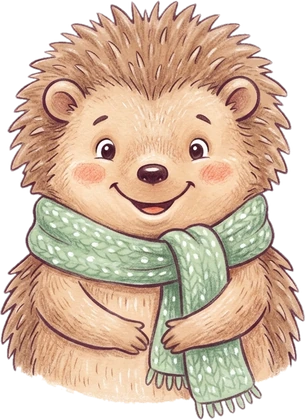
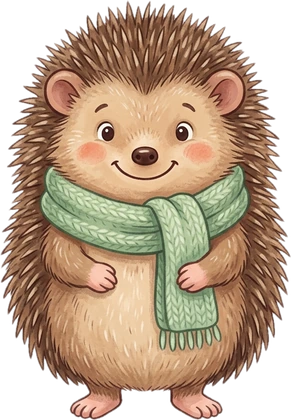
Legekassen: publiser fra legekassen@26ea6cf

diff --git a/leg/spil/blomsterhaven.js b/leg/spil/blomsterhaven.js
@@ -65,18 +65,8 @@
       display:flex;align-items:center;justify-content:center}
     .bh-nat-knap:active{transform:translateY(3px)}
 
-    /* Baggrund: havehegn, pynt og besøgende dyr */
+    /* Baggrund: pynt og besøgende dyr */
     .bh-scene{position:relative;flex:1;min-height:0;display:flex;flex-direction:column;justify-content:flex-end}
-    .bh-hegn{position:absolute;left:0;right:0;bottom:44%;height:16%;pointer-events:none;
-      background:repeating-linear-gradient(90deg,#e9d5b8 0 26px,#d4b690 26px 28px,transparent 28px 46px);
-      opacity:.9;border-top:5px solid #d4b690;border-bottom:5px solid #c4a076}
-    .bh.nat .bh-hegn{filter:brightness(.58) saturate(.8)}
-    /* Lyskæde i blød bue mellem æbletræerne (låses op efter 4 buketter) */
-    .bh-lyskaede{position:absolute;left:12%;right:12%;top:8%;height:14%;pointer-events:none;opacity:0;transition:opacity .6s;z-index:2}
-    .bh-lyskaede.vis{opacity:1}
-    .bh-lyskaede svg{width:100%;height:100%;overflow:visible;display:block}
-    .bh-paere{animation:bh-glimt 2.4s ease-in-out infinite;transform-box:fill-box;transform-origin:center}
-    .bh.nat .bh-paere-gloed{opacity:.95}
 
     /* Havepynt (låses op efter 1, 2, 3 buketter) — forankret på græsset bag bænken med skygge, dag/nat-lys og klik-reaktion */
     .bh-pynt{position:absolute;pointer-events:auto;cursor:pointer;bottom:34%;z-index:3;
@@ -146,18 +136,22 @@
     .bh-potte:active{transform:scale(.95)}
     .bh-potte.klar-pluk::before{content:"";position:absolute;inset:4px;border-radius:20px;
       box-shadow:0 0 0 4px #ffd23f,0 0 18px rgba(255,210,63,.7);animation:bh-puls 1.4s ease-in-out infinite;pointer-events:none}
-    .bh-plante-wrap{position:relative;width:100%;flex:1;display:flex;align-items:flex-end;justify-content:center;pointer-events:none;margin-bottom:-12px;z-index:2}
+    .bh-plante-wrap{position:relative;width:100%;flex:1;display:flex;align-items:flex-end;justify-content:center;pointer-events:none;margin-bottom:-22px;z-index:2}
     .bh-plante{max-height:clamp(95px,16.5vh,148px);max-width:96%;width:auto;object-fit:contain;display:block;
       transform-origin:bottom center;filter:drop-shadow(0 4px 5px rgba(45,30,45,.22));animation:bh-svaj 3.4s ease-in-out infinite}
     .bh-plante.voks{animation:bh-voks .55s cubic-bezier(.34,1.56,.64,1)}
     .bh-plante.spire{max-height:clamp(44px,7.5vh,68px)}
     .bh-plante.knop{max-height:clamp(74px,12.5vh,112px)}
-    .bh-pottesk{position:relative;width:clamp(72px,10vw,108px);height:clamp(48px,7.4vh,64px);z-index:1;
-      background:linear-gradient(180deg,#e07b54 0%,#c7613d 100%);
-      border-radius:8px 8px 22px 22px;border:3px solid #5a3426;box-shadow:0 4px 0 rgba(61,43,61,.25)}
-    .bh-pottesk::before{content:"";position:absolute;left:-7px;right:-7px;top:-10px;height:16px;border-radius:9px;
-      background:linear-gradient(180deg,#eb8b63,#d36d47);border:3px solid #5a3426}
-    .bh-jord{position:absolute;left:4px;right:4px;top:-6px;height:10px;border-radius:50%;background:#66422c}
+    .bh-pottesk-img{position:relative;z-index:1;width:clamp(84px,11.5vw,124px);height:auto;max-height:clamp(60px,9.2vh,84px);
+      object-fit:contain;display:block;pointer-events:none;transform-origin:bottom center;
+      filter:drop-shadow(0 5px 5px rgba(45,30,45,.25))}
+    /* Diskret håndlavet variation mellem de 6 potter (farvetone, størrelse, spejling af skrammer/lys) */
+    .bh-potte[data-idx="0"] .bh-pottesk-img{transform:scale(1.03) rotate(-.8deg)}
+    .bh-potte[data-idx="1"] .bh-pottesk-img{transform:scaleX(-1) scale(.96) rotate(.9deg);filter:hue-rotate(8deg) brightness(1.05) saturate(.94) drop-shadow(0 5px 5px rgba(45,30,45,.25))}
+    .bh-potte[data-idx="2"] .bh-pottesk-img{transform:scale(1.01) rotate(.5deg);filter:hue-rotate(-7deg) brightness(.95) saturate(1.08) drop-shadow(0 5px 5px rgba(45,30,45,.25))}
+    .bh-potte[data-idx="3"] .bh-pottesk-img{transform:scaleX(-1) scale(1.04) rotate(-.6deg);filter:hue-rotate(4deg) brightness(.98) saturate(1.04) drop-shadow(0 5px 5px rgba(45,30,45,.25))}
+    .bh-potte[data-idx="4"] .bh-pottesk-img{transform:scale(.95) rotate(1.1deg);filter:hue-rotate(-5deg) brightness(1.06) saturate(.9) drop-shadow(0 5px 5px rgba(45,30,45,.25))}
+    .bh-potte[data-idx="5"] .bh-pottesk-img{transform:scaleX(-1) scale(1.02) rotate(-.7deg);filter:hue-rotate(10deg) brightness(.94) saturate(1.05) drop-shadow(0 5px 5px rgba(45,30,45,.25))}
 
     /* Behov-boble over potten + støv/kilde-prikker */
     .bh-behov{position:absolute;top:2px;right:4px;z-index:4;width:clamp(38px,5.6vh,48px);height:clamp(38px,5.6vh,48px);
@@ -201,29 +195,35 @@
       background:#ff6b6b;color:#fff;font:800 15px/26px var(--display,system-ui);text-align:center;box-shadow:0 2px 0 rgba(61,43,61,.3)}
     .bh-tool-badge[hidden]{display:none}
 
-    /* Buket-værksted overlay (vælg sløjfe og giv til dyret!) */
-    .bh-buket-lag{position:absolute;inset:0;z-index:18;background:rgba(45,35,60,.42);backdrop-filter:blur(4px);
+    /* Buket-værksted overlay (håndmalet buket-indpakning, farvede sløjfer og glad modtager!) */
+    .bh-buket-lag{position:absolute;inset:0;z-index:18;background:rgba(45,35,60,.45);backdrop-filter:blur(5px);
       display:flex;align-items:center;justify-content:center;padding:16px}
     .bh-buket-lag[hidden]{display:none}
-    .bh-buket-kort{width:min(480px,92vw);border-radius:36px;background:#fffdf6;border:4px solid #4a354a;
-      box-shadow:0 12px 0 rgba(61,43,61,.28);padding:22px 20px;display:flex;flex-direction:column;align-items:center;gap:16px}
-    .bh-buket-vis{position:relative;width:230px;height:210px;display:flex;align-items:flex-end;justify-content:center}
-    .bh-buket-blomst{position:absolute;bottom:48px;height:145px;width:auto;object-fit:contain;transform-origin:bottom center;
-      filter:drop-shadow(0 4px 5px rgba(45,30,45,.2))}
-    .bh-buket-papir{position:relative;z-index:3;width:118px;height:96px;border-radius:10px 10px 46px 46px;
-      background:linear-gradient(135deg,#f7e3c4,#e7c496);border:3px solid #6b4325;
-      clip-path:polygon(0 0,100% 0,78% 100%,22% 100%)}
-    .bh-buket-sloejfe{position:absolute;bottom:44px;left:50%;transform:translateX(-50%);z-index:4;
-      width:74px;height:36px;display:flex;align-items:center;justify-content:center}
-    .bh-sloejfe-oere{width:30px;height:24px;border-radius:50%;border:3px solid var(--sk,#b83b3b);background:var(--sf,#ff6b6b)}
-    .bh-sloejfe-knude{width:18px;height:18px;border-radius:50%;border:3px solid var(--sk,#b83b3b);background:var(--sf,#ff6b6b);margin:0 -8px;z-index:2}
-    .bh-sloejfe-raekke{display:flex;gap:12px;justify-content:center;flex-wrap:wrap}
-    .bh-sloejfe-knap{width:62px;height:62px;border-radius:50%;border:4px solid #4a354a;box-shadow:0 4px 0 rgba(61,43,61,.22);
-      transition:transform .14s}
-    .bh-sloejfe-knap.valgt{transform:scale(1.15);box-shadow:0 0 0 4px #ffd23f,0 4px 0 rgba(61,43,61,.22)}
-    .bh-giv-knap{padding:14px 34px;border-radius:999px;background:#7ed957;border:3px solid #3d6b2b;
-      box-shadow:0 6px 0 #3d6b2b;font-size:34px;line-height:1;display:flex;align-items:center;gap:10px;
-      animation:bh-puls 1.3s ease-in-out infinite}
+    .bh-buket-kort{width:min(500px,92vw);border-radius:38px;
+      background:radial-gradient(circle at 50% 18%,#fffef8 0%,#fff7e2 68%,#f9ebd0 100%);
+      border:4px solid #4a354a;box-shadow:0 12px 0 rgba(61,43,61,.28),0 20px 40px rgba(35,20,45,.25);
+      padding:22px 20px 24px;display:flex;flex-direction:column;align-items:center;gap:16px;position:relative}
+    .bh-buket-top{display:flex;align-items:flex-end;justify-content:center;gap:12px;width:100%}
+    .bh-buket-modtager{height:clamp(108px,18vh,152px);width:auto;object-fit:contain;display:block;
+      filter:drop-shadow(0 5px 6px rgba(45,30,45,.2));animation:bh-nik 2.6s ease-in-out infinite}
+    .bh-buket-vis{position:relative;width:220px;height:220px;display:flex;align-items:flex-end;justify-content:center}
+    .bh-buket-blomst{position:absolute;bottom:76px;height:142px;width:auto;object-fit:contain;transform-origin:bottom center;
+      filter:drop-shadow(0 4px 5px rgba(45,30,45,.2));z-index:2}
+    .bh-buket-papir-img{position:relative;z-index:3;height:132px;width:auto;object-fit:contain;display:block;
+      filter:drop-shadow(0 6px 6px rgba(45,30,45,.22))}
+    .bh-buket-sloejfe-img{position:absolute;bottom:34px;left:50%;transform:translateX(-50%);z-index:4;
+      width:98px;height:auto;object-fit:contain;display:block;
+      filter:drop-shadow(0 3px 4px rgba(45,30,45,.25));transition:transform .2s cubic-bezier(.34,1.56,.64,1)}
+    .bh-sloejfe-raekke{display:flex;gap:10px;justify-content:center;flex-wrap:wrap}
+    .bh-sloejfe-knap{width:64px;height:64px;border-radius:50%;padding:7px;box-sizing:border-box;
+      background:#fffdf6;border:3px solid #4a354a;box-shadow:0 4px 0 rgba(61,43,61,.22);
+      display:flex;align-items:center;justify-content:center;transition:transform .14s}
+    .bh-sloejfe-knap img{width:100%;height:100%;object-fit:contain;display:block}
+    .bh-sloejfe-knap.valgt{background:#fff1ad;transform:scale(1.14);box-shadow:0 0 0 4px #ffd23f,0 4px 0 rgba(61,43,61,.22)}
+    .bh-giv-knap{width:84px;height:84px;padding:0;border-radius:50%;background:#7ed957;border:4px solid #3d6b2b;
+      box-shadow:0 6px 0 #3d6b2b;font-size:44px;line-height:1;
+      font-family:"Apple Color Emoji","Segoe UI Emoji","Noto Color Emoji",system-ui,sans-serif;
+      display:flex;align-items:center;justify-content:center;animation:bh-puls 1.3s ease-in-out infinite}
     .bh-giv-knap:active{transform:translateY(4px);box-shadow:0 2px 0 #3d6b2b}
 
     /* Telefon (smal skærm): 3x2 potter, kompakte knapper uden vandret scroll */
@@ -234,7 +234,8 @@
       .bh-plante{max-height:clamp(68px,11vh,94px)}
       .bh-plante.spire{max-height:38px}
       .bh-plante.knop{max-height:60px}
-      .bh-pottesk{width:68px;height:40px}
+      .bh-pottesk-img{width:76px;max-height:54px}
+      .bh-plante-wrap{margin-bottom:-16px}
       .bh-hegn{bottom:54%;height:11%}
       .bh-lyskaede{bottom:64%}
       .bh-pynt{bottom:47%}
@@ -429,13 +430,14 @@
         el, id,
         x: 15 + Math.random() * 70, y: 18 + Math.random() * 34,
         tx: 20 + Math.random() * 60, ty: 20 + Math.random() * 34,
-        tid: Math.random() * 6, vend: 1,
+        tid: Math.random() * 6, vend: 1, hvileTil: 0,
       };
       el.addEventListener("click", e => {
         e.stopPropagation();
         haveLyd("kryb");
         el.classList.remove("snur"); void el.offsetWidth; el.classList.add("snur");
         if (!roligt()) Spil.burstAt(el, "✨🌸✨");
+        k.hvileTil = 0;
         k.tx = 12 + Math.random() * 76; k.ty = 14 + Math.random() * 38;
       });
       lag.appendChild(el);
@@ -443,23 +445,31 @@
     }
   }
 
+  let sidstKryb = 0;
   function krybLoop(nu) {
     if (!alive) return;
     raf = requestAnimationFrame(krybLoop);
+    const dt = Math.min(.05, (nu - (sidstKryb || nu)) / 1000);
+    sidstKryb = nu;
     if (roligt()) return;
     const t = nu / 1000;
     for (const k of kryb) {
-      const dx = k.tx - k.x, dy = k.ty - k.y, d = Math.hypot(dx, dy);
-      if (d < 3) {
-        k.tx = 10 + Math.random() * 80;
-        k.ty = 16 + Math.random() * 38;
-      } else {
-        const fart = k.id === "bi" ? .07 : .045;
-        k.x += (dx / d) * fart * 3;
-        k.y += (dy / d) * fart * 3;
-        if (Math.abs(dx) > 1) k.vend = dx > 0 ? 1 : -1;
+      if (t >= k.hvileTil) {
+        const dx = k.tx - k.x, dy = k.ty - k.y, d = Math.hypot(dx, dy);
+        if (d < 2.2) {
+          // Hold en rolig pause på 3–6,5 sekunder, før den svæver videre
+          k.hvileTil = t + 3 + Math.random() * 3.5;
+          k.tx = 12 + Math.random() * 76;
+          k.ty = 16 + Math.random() * 36;
+        } else {
+          const fart = k.id === "bi" ? 5.2 : 3.6; // % af skærmen pr. sekund (roligt og uafhængigt af 60/120Hz)
+          k.x += (dx / d) * fart * dt;
+          k.y += (dy / d) * fart * dt;
+          if (Math.abs(dx) > 1) k.vend = dx > 0 ? 1 : -1;
+        }
       }
-      const bob = Math.sin(t * 3.2 + k.tid) * 6;
+      const hviler = t < k.hvileTil;
+      const bob = Math.sin(t * (hviler ? 1.5 : 2.6) + k.tid) * (hviler ? 2.5 : 5);
       k.el.style.left = k.x + "%";
       k.el.style.top = k.y + "%";
       k.el.style.transform = `translate(-50%, calc(-50% + ${bob.toFixed(1)}px)) scaleX(${k.vend})`;
@@ -469,11 +479,10 @@
   /* ---------- Tegn potter, pynt, frøbakke og værktøj ---------- */
   function tegnPynt() {
     const b = tilstand.buketter;
-    const sv = $(".bh-pynt.svampehus"), fb = $(".bh-pynt.fuglebad"), ly = $(".bh-pynt.lygte"), lk = $(".bh-lyskaede");
+    const sv = $(".bh-pynt.svampehus"), fb = $(".bh-pynt.fuglebad"), ly = $(".bh-pynt.lygte");
     if (sv) sv.hidden = b < 1;
     if (fb) fb.hidden = b < 2;
     if (ly) ly.hidden = b < 3;
-    if (lk) lk.classList.toggle("vis", b >= 4);
     const tEl = $(".bh-taeller b");
     if (tEl) tEl.textContent = b;
   }
@@ -567,7 +576,7 @@
         <div class="bh-behov" hidden></div>
         <div class="bh-stoev" hidden><span style="left:18%;top:28%"></span><span style="right:20%;top:18%;animation-delay:.3s"></span><span style="left:45%;top:52%;animation-delay:.6s"></span></div>
         <div class="bh-plante-wrap"></div>
-        <div class="bh-pottesk"><div class="bh-jord"></div></div>
+        <img class="bh-pottesk-img" src="${IMG}potte.webp" alt="" draggable="false">
       </div>`).join("");
       baenk.querySelectorAll(".bh-potte").forEach(el => {
         el.addEventListener("click", () => trykPotte(Number(el.dataset.idx), el));
@@ -691,20 +700,19 @@
   function tegnBuketKort() {
     const vis = $(".bh-buket-vis");
     const raekke = $(".bh-sloejfe-raekke");
+    const modt = $(".bh-buket-modtager");
     if (!vis || !raekke) return;
-    const sObj = SLOEJFER.find(s => s.id === valgtSloejfe) || SLOEJFER[0];
+    if (modt && kunde) { modt.src = `${IMG}${kunde.id}.webp`; modt.alt = kunde.navn; }
     const vinkler = buketKurv.length === 2 ? [-16, 16] : [-24, 0, 24];
     const blomsterHtml = buketKurv.map((id, i) => {
       const ang = vinkler[i] || 0;
       return `<img class="bh-buket-blomst" src="${IMG}${id}.webp" alt="" style="transform:rotate(${ang}deg)">`;
     }).join("");
     vis.innerHTML = `${blomsterHtml}
-      <div class="bh-buket-papir"></div>
-      <div class="bh-buket-sloejfe" style="--sf:${sObj.farve};--sk:${sObj.kant}">
-        <div class="bh-sloejfe-oere"></div><div class="bh-sloejfe-knude"></div><div class="bh-sloejfe-oere"></div>
-      </div>`;
+      <img class="bh-buket-papir-img" src="${IMG}buket-papir.webp" alt="" draggable="false">
+      <img class="bh-buket-sloejfe-img" src="${IMG}sloejfe-${valgtSloejfe}.webp" alt="" draggable="false">`;
     raekke.innerHTML = SLOEJFER.map(s =>
-      `<button class="bh-sloejfe-knap${s.id === valgtSloejfe ? " valgt" : ""}" data-s="${s.id}" style="background:${s.farve}" aria-label="${s.id}"></button>`
+      `<button class="bh-sloejfe-knap${s.id === valgtSloejfe ? " valgt" : ""}" data-s="${s.id}" aria-label="${s.id}"><img src="${IMG}sloejfe-${s.id}.webp" alt="" draggable="false"></button>`
     ).join("");
     raekke.querySelectorAll(".bh-sloejfe-knap").forEach(btn => {
       btn.addEventListener("click", () => {
@@ -734,7 +742,7 @@
     if (tEl) { tEl.classList.remove("pop"); void tEl.offsetWidth; tEl.classList.add("pop"); }
     Spil.sfx.fanfare();
     const nyPynt = (foer < 1 && tilstand.buketter >= 1) || (foer < 2 && tilstand.buketter >= 2) ||
-      (foer < 3 && tilstand.buketter >= 3) || (foer < 4 && tilstand.buketter >= 4);
+      (foer < 3 && tilstand.buketter >= 3);
     Spil.say("Tusind tak! Hvor er det en dejlig buket!", () => {
       if (nyPynt) {
         later(() => Spil.say("Se! Du har fået ny pynt til din have!", null, "bh-ny-pynt"), 250);
@@ -782,19 +790,6 @@
       const stjHtml = Array.from({ length: 18 }, (_, i) =>
         `<span class="bh-stj-prik" style="left:${(i * 19 + 7) % 94}%;top:${(i * 23 + 5) % 52}%;animation-delay:${(i * .35).toFixed(2)}s"></span>`
       ).join("");
-      // Lyskæde på en blød bue (parabel) mellem æbletræerne med synlig snor og hængende pærer
-      const paerePts = Array.from({ length: 9 }, (_, i) => {
-        const u = (i + 1) / 10, x = u * 1000, y = 14 + 4 * u * (1 - u) * 58;
-        return `<g class="bh-paere" style="animation-delay:${(i * .28).toFixed(2)}s">
-          <circle class="bh-paere-gloed" cx="${x.toFixed(1)}" cy="${(y + 10).toFixed(1)}" r="15" fill="#ffe785" opacity=".4"/>
-          <rect x="${(x - 3).toFixed(1)}" y="${(y + 1).toFixed(1)}" width="6" height="5" rx="1.5" fill="#4a354a"/>
-          <circle cx="${x.toFixed(1)}" cy="${(y + 10).toFixed(1)}" r="7" fill="#fff3b0" stroke="#4a354a" stroke-width="2"/>
-        </g>`;
-      }).join("");
-      const paererHtml = `<svg viewBox="0 0 1000 100" preserveAspectRatio="none">
-        <path d="M 0 14 Q 500 130 1000 14" fill="none" stroke="#4a354a" stroke-width="3.5" stroke-linecap="round"/>
-        ${paerePts}
-      </svg>`;
 
       rt.innerHTML = `<div class="bh${tilstand.nat ? " nat" : ""}">
         <div class="bh-bg-dag"></div>
@@ -807,7 +802,6 @@
           <button class="bh-nat-knap" aria-label="Dag og nat">${tilstand.nat ? "☀" : "🌙"}</button>
         </div>
         <div class="bh-scene">
-          <div class="bh-lyskaede">${paererHtml}</div>
           <div class="bh-pynt svampehus" hidden><img src="${IMG}svampehus.webp" alt="" draggable="false"></div>
           <div class="bh-pynt fuglebad" hidden><img src="${IMG}fuglebad.webp" alt="" draggable="false"></div>
           <div class="bh-pynt lygte" hidden><img src="${IMG}lygte.webp" alt="" draggable="false"></div>
@@ -822,9 +816,12 @@
         <div class="bh-dock"></div>
         <div class="bh-buket-lag" hidden>
           <div class="bh-buket-kort">
-            <div class="bh-buket-vis"></div>
+            <div class="bh-buket-top">
+              <img class="bh-buket-modtager" src="${IMG}kanin.webp" alt="" draggable="false">
+              <div class="bh-buket-vis"></div>
+            </div>
             <div class="bh-sloejfe-raekke"></div>
-            <button class="bh-giv-knap" aria-label="Giv buket">💐✨</button>
+            <button class="bh-giv-knap" aria-label="Giv buket">🎁</button>
           </div>
         </div>
       </div>`;
